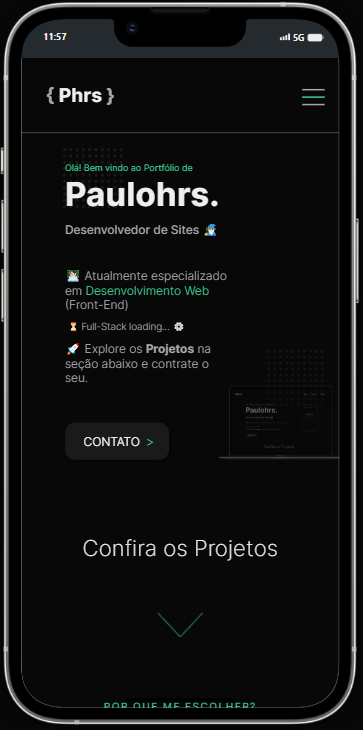
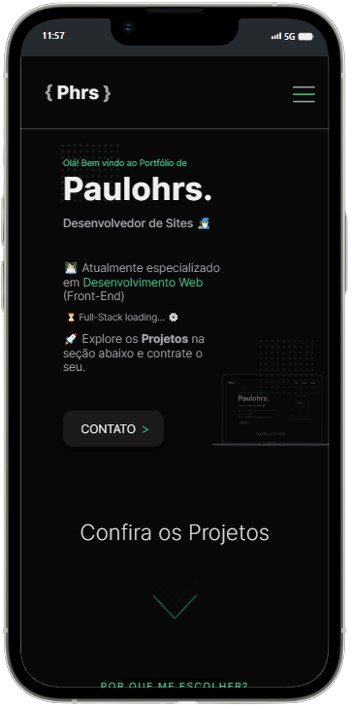
upload README

Changed region(s): [[0.0, 0.0, 1.0, 1.0], [0.1875, 0.4344, 0.2188, 0.4965], [0.5625, 0.3103, 0.5938, 0.3413]]

diff --git a/src/css/style.css b/src/css/style.css
@@ -230,7 +230,7 @@ body {
     align-content: end;
 }
 
- .img-mobile {
+.img-mobile {
     width: 190px;
     height: 380px;
     margin-right: 20px;
@@ -372,7 +372,8 @@ body {
     width: 800px;
 }
 
-.projetos .desc, .ultima {
+.projetos .desc,
+.ultima {
     margin-bottom: 70px;
 }
 
@@ -441,7 +442,7 @@ body {
     transition: transform 0.5s ease;
 }
 
-.projetos .img-projetos .link-pai:hover{
+.projetos .img-projetos .link-pai:hover {
     filter: opacity(1);
     transform: scale(1.1);
 }
@@ -462,7 +463,6 @@ body {
     transform: scale(1.1);
 }
 
-
 .projetos .container .link-pai {
     position: relative;
     transition: all 0.3s ease;
@@ -475,7 +475,7 @@ body {
     opacity: 1;
 }
 
-.projetos .container .img-projetos .link-pai .link-projeto  {
+.projetos .container .img-projetos .link-pai .link-projeto {
     position: absolute;
     background-color: #0808089d;
     display: flex;

diff --git a/index.html b/index.html
@@ -73,7 +73,7 @@
             </div>
             <div class="background-images">
                 <img class="img-mobile hidden-opacity" src="./src/images/img-Portfolio-Mobile.png" alt="">
-                <img class="img-desktop hidden-opacity" src="./src/images/img-portfolio--desktop.png" alt="">
+                <img class="img-desktop hidden-opacity" src="./src/images/img-portfolio-desktop.png" alt="">
                 <img class="img-bolinhas" src="https://svgsilh.com/svg/26432.svg" alt="">
             </div>
         </div>

diff --git a/README.md b/README.md
@@ -1,0 +1,24 @@
+# Meu Portfólio Paulohrs 👨💻👨🔧💚
+ Foi desenvolvido para atrair clientes interessados em criar seus próprios sites, me contratando para o trabalho, adicionei algumas animações que fez total diferença. 
+
+<br>
+
+vou deixar só print abaixo e não gif, para você mesmo conferir as animações do site: https://paulohrs01.github.io/Portfolio-Paulohrs/
+## Demonstração da seção home em desktop:
+
+[<img src="./src/images/preview-desktop.png">](https://paulohrs01.github.io/Portfolio-Paulohrs/)
+
+<br>
+
+
+## Mobile:
+<img src="./src/images/img-Portfolio-Mobile.png" height="300px" alt="imagem da home do projeto Personal Trainer no mobile">
+
+<br>
+
+## Tecnologias utilizadas:
+- HTML
+- CSS
+- JS
+
+(Botão menu hamburguer com animação)
